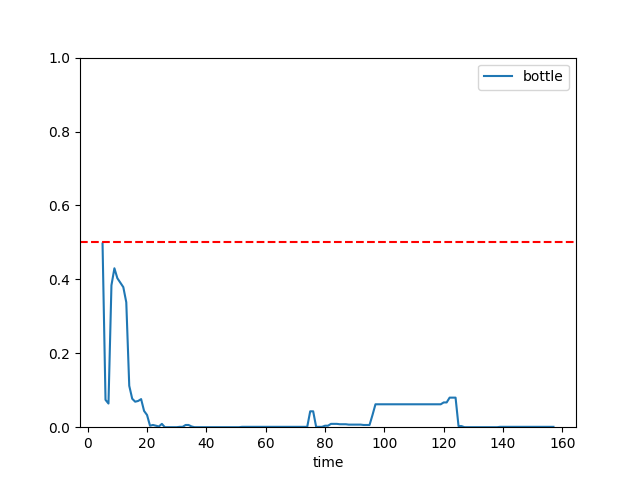
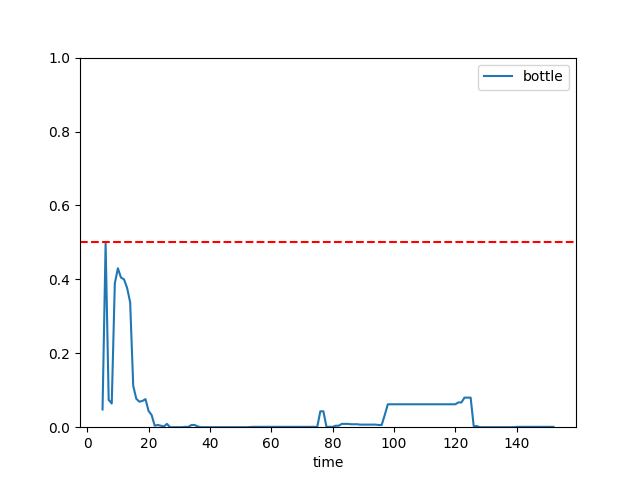
Minor tweaks and bugfixes. Added a script for the plotting functions.

diff --git a/util/plots.py b/util/plots.py
@@ -1,0 +1,80 @@
+import pandas as pd
+import matplotlib.pyplot as plt
+from scipy.interpolate import make_interp_spline
+import numpy as np
+from util.PathProvider import path_provider
+from cognitive_architecture.MarkovFSM import ensemble
+
+
+def plot_focus():
+    plt.gcf().set_dpi(300)
+    headers = ["time", "sink", "glass", "hobs", "biscuits", "meal", "plate", "bottle"]
+    file = path_provider.get_csv("focus_belief.csv")
+    df = pd.read_csv(file, names=headers)
+    for item in headers[1:]:
+        print("Plotting {0}".format(item))
+        df[["time", item]].set_index('time').plot()
+        # Plot styling
+        plt.legend(loc="upper right")
+        plt.ylim(0, 1.0)
+        plt.axhline(y=0.5, color='r', linestyle='dashed')
+        # Data plotting
+        plt.savefig(path_provider.get_image("{0}.png".format(item)))
+
+
+def test_fsm(save=False, name="fsm_test.png"):
+    # PNP
+    observations = ['STILL', 'WALK', 'PICK', 'TRANSPORT', 'PLACE', 'PICK', 'STILL', 'WALK', 'STILL']
+    # USE
+    #observations = ['STILL', 'WALK', 'PICK', 'PLACE', 'PICK', 'PLACE', 'PICK', 'PLACE', 'STILL']
+    # RELOCATE
+    #observations = ['STILL', 'WALK', 'STILL', 'WALK', 'STILL', 'WALK', 'STILL', 'WALK', 'STILL']
+    # NOISY PNP
+    #observations = ['STILL', 'WALK', 'STILL', 'PICK', 'TRANSPORT', 'PLACE', 'PICK', 'STILL', 'WALK']
+    m1 = []
+    m2 = []
+    m3 = []
+    percent = None
+    moment = None
+    for i, obs in enumerate(observations):
+        print("Inserting: {0}".format(obs))
+        ensemble.add_observation(obs)
+        scores = ensemble.get_scores()
+        action, score, winner = ensemble.best_model()
+        #print(action, score, winner)
+        print(scores)
+        m1.append(scores[0])
+        m2.append(scores[1])
+        m3.append(scores[2])
+        if winner and moment is None:
+            percent = round((i + 1) / len(observations), 2)
+            print(percent)
+            moment = i
+    # Plot
+    x = np.array(list(range(len(observations))))
+    X_ = np.linspace(x.min(), x.max(), 500)
+    # plot lines
+    spline_m1 = make_interp_spline(x, m1)
+    spline_m2 = make_interp_spline(x, m2)
+    spline_m3 = make_interp_spline(x, m3)
+    M1_ = spline_m1(X_)
+    M2_ = spline_m2(X_)
+    M3_ = spline_m3(X_)
+    plt.plot(X_, M1_, label="Pick&Place", alpha=0.7, c='blue')
+    plt.plot(X_, M2_, label="Use", alpha=0.7, c='black')
+    plt.plot(X_, M3_, label="Relocate", alpha=0.7, c='orange')
+    #plt.plot(x, m1, label="Pick&Place", alpha=0.5, c='blue')
+    #plt.plot(x, m2, label="Use", alpha=0.5, c='black')
+    #plt.plot(x, m3, label="Relocate", alpha=0.5, c='red')
+    # Winning moment, if exists
+    #if moment is not None:
+    #    plt.axvline(x=moment, color='gray', linestyle='--')
+    plt.legend(loc='lower left')
+    plt.xlabel('Timestep')
+    plt.ylabel('Similarity index')
+    plt.grid(True, alpha=0.3)
+    plt.ylim(0.0, 1.0)
+    if not save:
+        plt.show()
+    else:
+        plt.savefig(path_provider.get_image(name))

diff --git a/cognitive_architecture/MarkovFSM.py b/cognitive_architecture/MarkovFSM.py
@@ -141,15 +141,11 @@ class EnsembleFSM:
         if input_size == 1:
             # If it's the very first insertion, initiate the sample with the detected movement
             self.init_sampling(self.filtered_observations[0])
-        #if input_size < 3:
-        #    return None, None, False    # Early observation that will likely match with the starting state
         top_score = -1.0
         top_model = None
         tie = False
         for model in self.models:
-            #sample = model.sample[:input_size]
             sample = model.sample
-            #print("Sample from model {0} is {1}".format(model.name, sample))
             score = similar(refactor(self.filtered_observations), refactor(sample))
             if score >= top_score:
                 if score == top_score:  # There is a tie, register both names
@@ -160,14 +156,46 @@ class EnsembleFSM:
                 else:
                     top_score = score
                     top_model = model.name
+                    tie = False
         if not tie:
             return top_model, top_score, top_score >= threshold
         else:
             return top_model, top_score / len(top_model), False     # A tie never wins
 
+    def get_scores(self):
+        """
+        Calculates the normalized scores that each model obtains on the observations.
+
+        @return: Array of scores.
+        """
+        def similar(a, b):
+            return SequenceMatcher(None, a, b).ratio()
+
+        def refactor(list_sample):
+            output = ''
+            for word in list_sample:
+                output += word[0]
+            return output
+
+        input_size = len(self.filtered_observations)
+        if input_size == 1:
+            # If it's the very first insertion, initiate the sample with the detected movement
+            self.init_sampling(self.filtered_observations[0])
+        scores = [0, 0, 0]
+        for i, model in enumerate(self.models):
+            sample = model.sample
+            score = similar(refactor(self.filtered_observations), refactor(sample))
+            scores[i] = score
+        # Normalization
+        #eta = 1 / sum(scores)
+        #for i, score in enumerate(scores):
+        #    scores[i] *= eta
+        return scores
+
     def evaluate(self):
         """
         Debug function to evaluate the training data. Prints some accuracy metrics.
+        Does not work anymore due to modifications on the sampling algorithm.
 
         :return: None
         """

diff --git a/cognitive_architecture/LowLevel.py b/cognitive_architecture/LowLevel.py
@@ -7,6 +7,7 @@ from cognitive_architecture.FocusBelief import FocusBelief
 from qsrlib.qsrlib import QSRlib, QSRlib_Request_Message
 from qsrlib_io.world_trace import World_Trace
 import pickle
+import csv
 from pathlib import Path
 from cognitive_architecture.TreeTrainer import TreeTrainer
 from cognitive_architecture.EpisodeFactory import EpisodeFactory
@@ -194,7 +195,7 @@ class LowLevel(Process):
         trainer = TreeTrainer()
         return trainer.k_fold_cross_validation(min, max)
 
-    def test(self, debug=False, save_focus=False):
+    def test(self, debug=True, save_focus=False):
         latest_prediction_time = None
         while True:
             # Collect the latest QSRs calculated from the observation of the environment
@@ -246,6 +247,8 @@ class LowLevel(Process):
                             print("MOVEMENT: {0}".format(movement))
                         # Add the Movement to the Markovian finite-state machine to predict a temporal Action
                         if not latest_prediction_time or latest_timestamp - latest_prediction_time > 2: # testing this
+                            # todo testing, remove when not needed
+                            #self.save_log_data(path_provider.get_csv('pnp0.csv'), movement)
                             ensemble.add_observation(movement)
                         action, score, winner = ensemble.best_model()   # Try to predict an Action
                         if not winner:
@@ -274,6 +277,18 @@ class LowLevel(Process):
                             observation = Prediction(ca, {'target': target, 'destination': destination})
                             self.ca_conn.set(observation)
                             # Goes back to observing...
+
+    def save_log_data(self, file, data):
+        """
+        Saves some data to a file. Used to log parts of the execution.
+
+        @param file: file path
+        @param data: data to save
+        @return: None
+        """
+        with open(file, 'a') as f:
+            writer = csv.writer(f)
+            writer.writerow([data])
 
     def run(self) -> None:
         print("{0} process is running.".format(self.__class__.__name__))

diff --git a/cognitive_architecture/CognitiveArchitecture.py b/cognitive_architecture/CognitiveArchitecture.py
@@ -11,7 +11,7 @@ from datatypes.Synchronization import SynchVariable
 class CognitiveArchitecture(Process):
     def __init__(self, robot_conn, qsr_synch, start_event, mode):
         super().__init__()
-        assert mode.upper() == "TRAIN" or mode.upper() == "TEST", "mode accepts parameters 'train' or 'test'."
+        assert mode.upper() in ['TRAIN', 'TEST'], "mode accepted values: 'train', 'test'."
         self.robot_conn = robot_conn
         self.start_event = start_event
         self.mode = mode
@@ -31,9 +31,6 @@ class CognitiveArchitecture(Process):
                 # HL has the priority: check if a goal has been found
                 if self.goal_from_hl_conn.poll():
                     plan = self.goal_from_hl_conn.get()
-                    #import pickle
-                    #from util.PathProvider import path_provider
-                    #pickle.dump(goal, open(path_provider.get_save('GOALTREE.p'), "wb"))
                     # Send the collaborative instructions to the Robot
                     self.robot_conn.set(plan)
                 elif self.obs_from_ll_conn.poll():

diff --git a/test.py b/test.py
@@ -3,10 +3,16 @@ import random
 import time
 import pandas as pd
 import matplotlib.pyplot as plt
-
+from scipy.interpolate import make_interp_spline
+import numpy as np
 from cognitive_architecture.KnowledgeBase import KnowledgeBase, ObservationStatement
 from util.PathProvider import path_provider
 import pickle
+from scipy.ndimage.filters import gaussian_filter1d
+from scipy.interpolate import interp1d
+from cognitive_architecture.MarkovFSM import ensemble
+import util.plots
+
 
 '''
 factory = DataFrameFactory()
@@ -114,7 +120,7 @@ kb.verify_observation(os2, debug=True)
 kb.verify_observation(os3, debug=True)
 """
 
-
+"""
 # ONTOLOGY-TEST
 
 onto = KnowledgeBase('kitchen_onto')
@@ -122,7 +128,7 @@ ob_s = ObservationStatement("human", "SIP", "glass", "bottle")
 onto.verify_observation(ob_s, debug=True, infer=True)
 #g_s = GoalStatement("human", "LUNCH", "biscuits")
 #onto.verify_goal(g_s, debug=True)
-
+"""
 
 """
 # PLAN-LIBRARY TEST
@@ -156,7 +162,7 @@ goal.render()
 
 #plan = make_plan(goal)
 
-
+util.plots.test_fsm(save=True, name='fsm_pnp.png')
 
 
 
